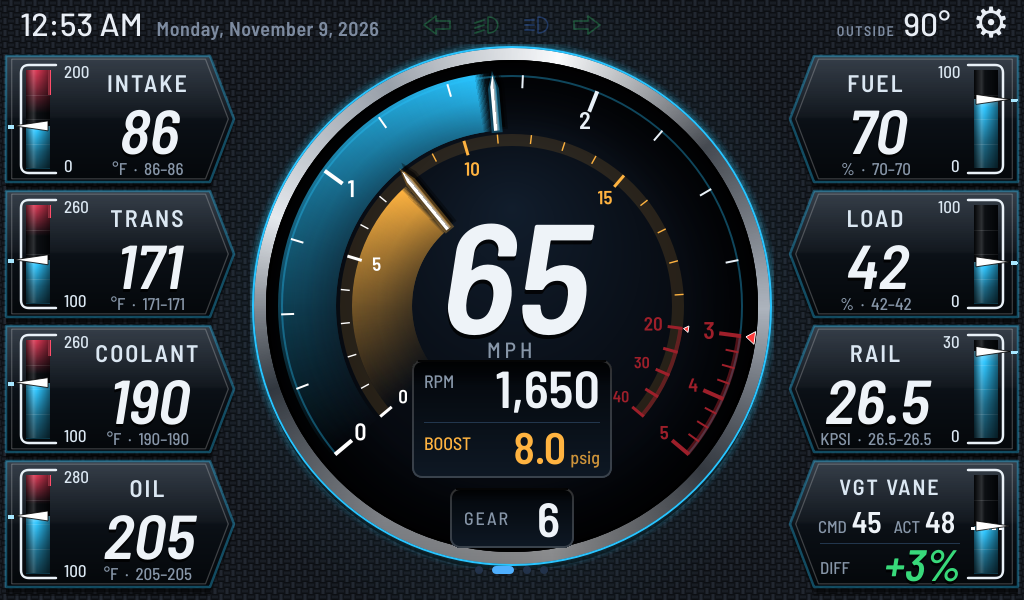
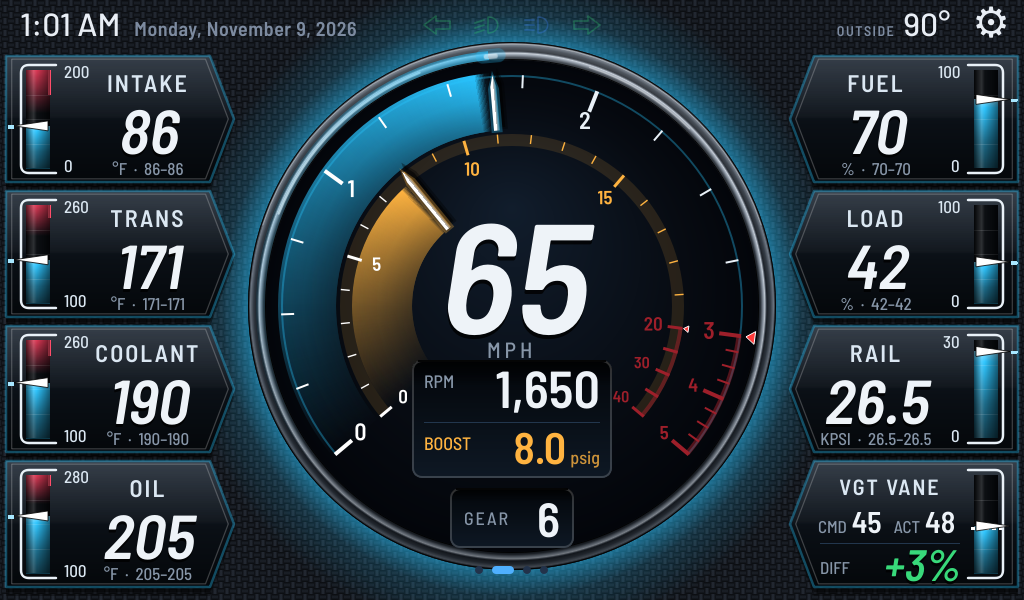
Towing page: C3 gunmetal ring with backlight from behind; RPM trail reflected in the bezel (E2)
Claude-Session: https://claude.ai/code/session_01NB1fkpFcGY28RY4JZ8NWPC

Changed region(s): [[0.0312, 0.0, 0.8125, 1.0]]

diff --git a/gaugeworks/qml/TowGauge.qml b/gaugeworks/qml/TowGauge.qml
@@ -33,10 +33,11 @@ Item {
     property real pkTrailDeg: 32       // peak needle's glow trail: length (degrees) and strength
     property real pkTrailA: 0.75   // JP's pick: K4
     property color scaleRed: "#9e1f2a"   // red-zone ticks and numbers on the scales
-    property int ringStyle: 0         // 0 current; 1 chrome bevel + soft backlight; 2 chrome + strong backlight; 3 wide turned chrome + backlight;
+    property int ringStyle: 9         // 0 current; 1 chrome bevel + soft backlight; 2 chrome + strong backlight; 3 wide turned chrome + backlight;
                                       // 4-6 round chrome tube (like a hoop earring) + backlight: 4 slim, 5 thick, 6 thick polished;
                                       // 7-10 high-quality ring, glow from behind: 7 polished chrome, 8 satin, 9 gunmetal, 10 polished + inner bevel
-    property real haloA: 0.55        // backlight spilling onto the background behind the gauge
+    property real haloA: 0.55
+    property real bezelRefl: 0.6     // the RPM light trail reflected in the bezel's inner edge (0 = off)        // backlight spilling onto the background behind the gauge
     property int holdMs: 3500         // hold the peak this long, then ease back to the needle in about 2.5 s
     property real demoRPeak: NaN      // screenshots only
     property real demoIPeak: NaN
@@ -255,6 +256,37 @@ Item {
             c.lineWidth = 3; c.strokeStyle = "rgba(0,0,0,0.85)"
             c.beginPath(); c.arc(cx, cy, R - 1.5, 0, 2 * Math.PI); c.stroke()
         }
+    }
+
+    // ---- the RPM light trail reflected in the bezel: on the inner half of the ring, which faces the dial
+    Shape {
+        id: refl
+        anchors.fill: parent
+        readonly property real r0: g.rd + 1
+        readonly property real r1: g.rd + 10
+        readonly property real swp: Math.max(0.01, g.rAng - g.a0)
+        readonly property color col: g.rHot ? "#ff3b3b" : g.acc
+        opacity: g.ringStyle >= 7 && g.rOk ? 1 : 0
+        ShapePath {
+            strokeColor: "transparent"
+            fillGradient: ConicalGradient {
+                centerX: g.cx; centerY: g.cy; angle: -g.rAng
+                GradientStop { position: 0; color: Qt.rgba(refl.col.r, refl.col.g, refl.col.b, g.bezelRefl) }
+                GradientStop { position: Math.max(0.002, refl.swp / 360 * 0.35); color: Qt.rgba(refl.col.r, refl.col.g, refl.col.b, g.bezelRefl * 0.35) }
+                GradientStop { position: Math.max(0.003, refl.swp / 360); color: Qt.rgba(refl.col.r, refl.col.g, refl.col.b, 0) }
+                GradientStop { position: 1; color: "transparent" }
+            }
+            PathAngleArc { centerX: g.cx; centerY: g.cy; radiusX: refl.r1; radiusY: refl.r1; startAngle: g.a0; sweepAngle: refl.swp }
+            PathAngleArc { moveToStart: false; centerX: g.cx; centerY: g.cy; radiusX: refl.r0; radiusY: refl.r0
+                           startAngle: g.rAng; sweepAngle: -refl.swp }
+        }
+    }
+    Item {   // bright glint on the bezel right where the needle is
+        x: g.cx; y: g.cy; rotation: g.rAng
+        opacity: g.ringStyle >= 7 && g.rOk ? g.bezelRefl : 0
+        Rectangle { x: g.rd - 2; y: -15; width: 14; height: 30; radius: 7
+                    color: Qt.rgba(refl.col.r, refl.col.g, refl.col.b, 0.45) }
+        Rectangle { x: g.rd + 2; y: -7; width: 5; height: 14; radius: 2.5; color: "#ffffff"; opacity: 0.8 }
     }
 
     // ---- light trails (behind the scales)

diff --git a/docs/decisions.md b/docs/decisions.md
@@ -283,3 +283,8 @@ its own skin.
   Light trail T3: 4° dark gap behind the needle, full strength, little fade.
 - Peak marker changed (O3): a copy of the blade needle in deep orange (#ff6a00)
   at 90% with an orange glow trail, on RPM and boost. Same 3.5 s hold, ~2.5 s fall.
+- Center ring C3: gunmetal chrome tube with real-chrome reflections (sky band,
+  dark horizon, crisp highlights), a soft shadow on the face, and the accent
+  backlight spilling onto the background from behind the gauge. The RPM light
+  trail reflects in the bezel's inner edge, with a glint where the needle is
+  (60%). Also K4 peak trail (32°, 75%), panel outlines at 35%, deep red scale zone.
